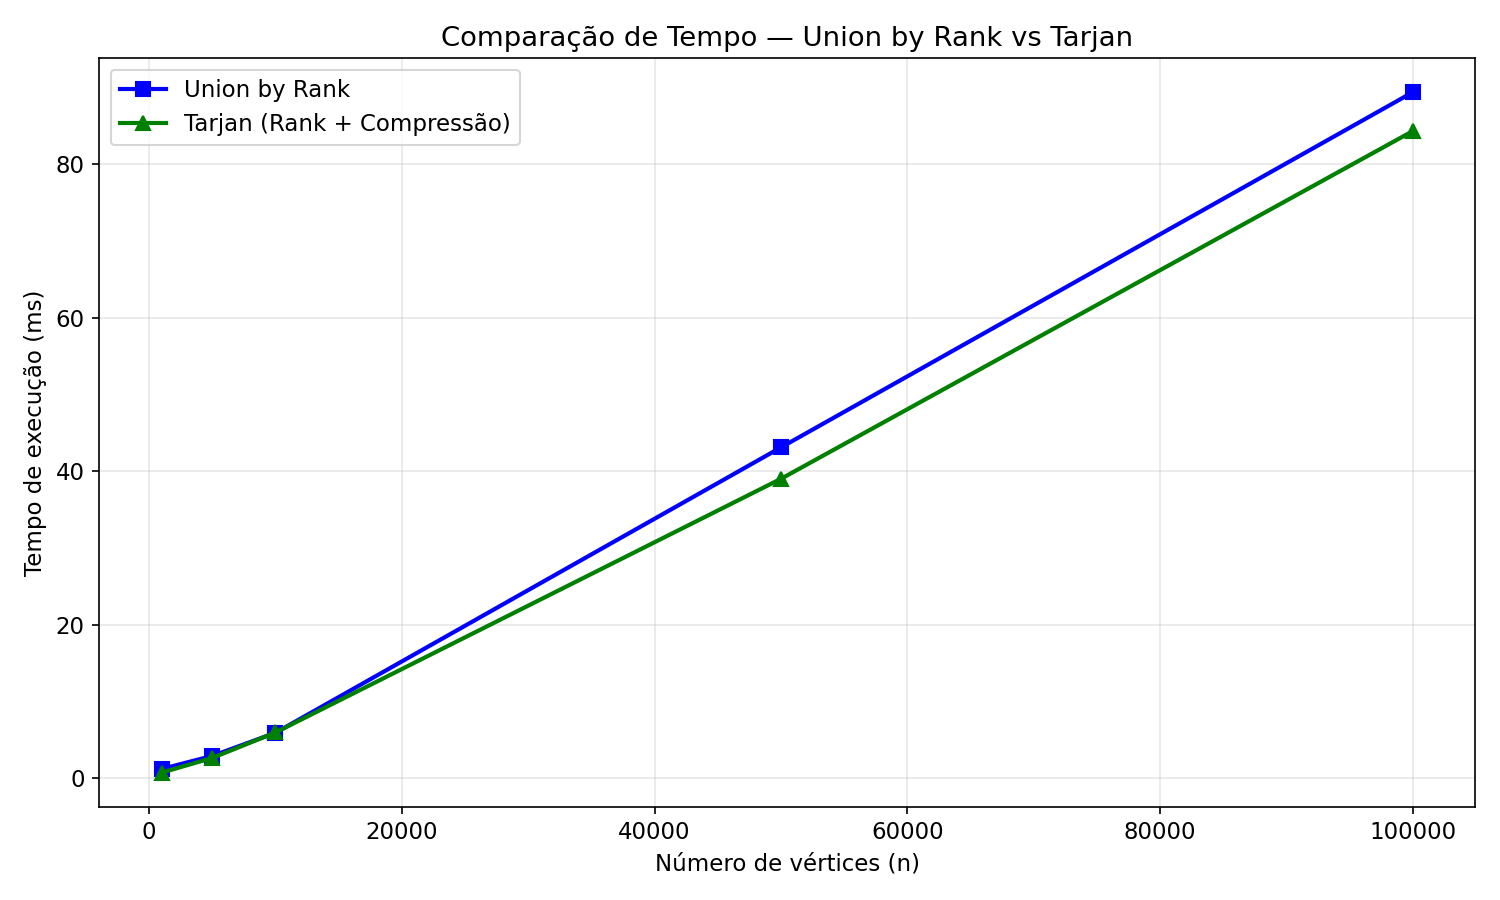
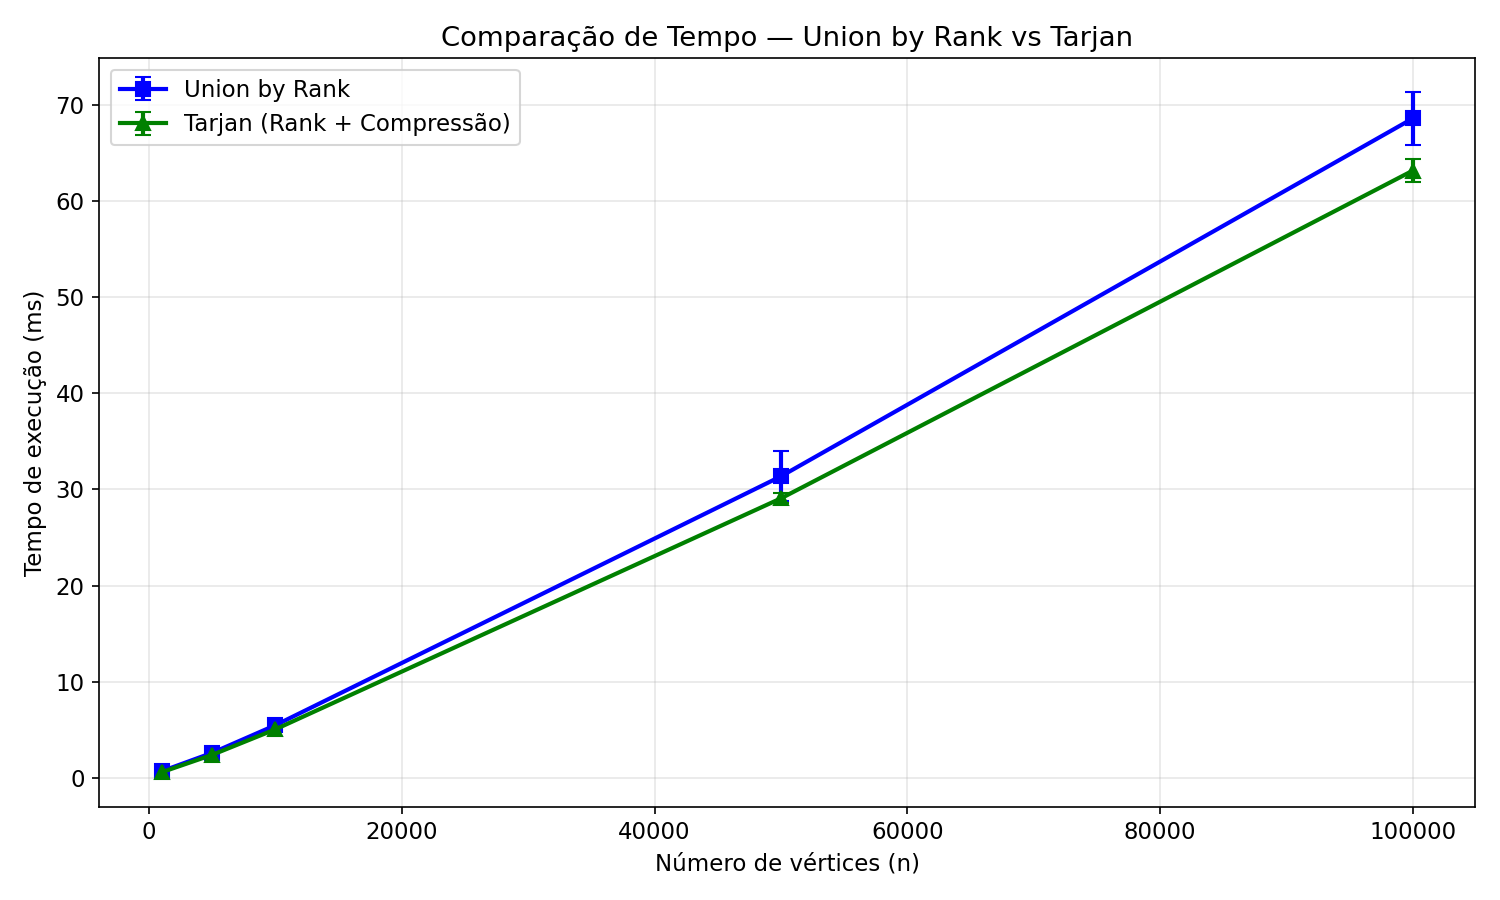
refactor(graficos): leitura de CSV e barras de erro nos tempos

diff --git a/gerar_graficos.py b/gerar_graficos.py
@@ -1,49 +1,44 @@
+import csv
+import sys
 import matplotlib.pyplot as plt
 import numpy as np
 
-# dados coletados do benchmark com warm-up JIT (seed=42, unica execucao)
-# n, m, variante, tempo_ms, operacoes
-dados_brutos = """
-1000,3000,Naive,1.49,647373
-1000,3000,Union by Rank,1.23,27377
-1000,3000,Tarjan (Rank + Compressao),0.76,19897
-5000,15000,Naive,16.83,21438927
-5000,15000,Union by Rank,2.93,157485
-5000,15000,Tarjan (Rank + Compressao),2.67,108137
-10000,30000,Naive,56.58,80819671
-10000,30000,Union by Rank,5.94,324011
-10000,30000,Tarjan (Rank + Compressao),5.98,216791
-50000,150000,Naive,3320.02,2029460441
-50000,150000,Union by Rank,43.09,1674589
-50000,150000,Tarjan (Rank + Compressao),39.00,1084927
-100000,300000,Naive,14519.67,8148600321
-100000,300000,Union by Rank,89.33,3257913
-100000,300000,Tarjan (Rank + Compressao),84.27,2155953
-"""
+# Uso: python gerar_graficos.py [caminho_csv]
+# Default: benchmark_detalhado.csv na pasta atual
 
-naive_n, naive_tempo, naive_ops = [], [], []
-rank_n, rank_tempo, rank_ops = [], [], []
-tarjan_n, tarjan_tempo, tarjan_ops = [], [], []
+caminho_csv = sys.argv[1] if len(sys.argv) > 1 else "benchmark_detalhado.csv"
 
-for linha in dados_brutos.strip().split("\n"):
-    partes = linha.split(",")
-    n = int(partes[0])
-    tempo = float(partes[3])
-    ops = int(partes[4])
-    variante = partes[2]
+dados = {"Naive": {}, "Union by Rank": {}, "Tarjan (Rank + Compressao)": {}}
 
-    if variante == "Naive":
-        naive_n.append(n)
-        naive_tempo.append(tempo)
-        naive_ops.append(ops)
-    elif variante == "Union by Rank":
-        rank_n.append(n)
-        rank_tempo.append(tempo)
-        rank_ops.append(ops)
-    else:
-        tarjan_n.append(n)
-        tarjan_tempo.append(tempo)
-        tarjan_ops.append(ops)
+with open(caminho_csv, newline="", encoding="utf-8") as f:
+    leitor = csv.DictReader(f)
+    for linha in leitor:
+        variante = linha["variante"]
+        n = int(linha["n"])
+        dados[variante][n] = {
+            "tempo_medio": float(linha["tempo_medio"]),
+            "tempo_std":   float(linha["tempo_std"]),
+            "ops_media":   float(linha["ops_media"]),
+            "ops_std":     float(linha["ops_std"]),
+        }
+
+def extrair(variante, campo):
+    itens = sorted(dados[variante].items())
+    ns = [n for n, _ in itens]
+    vals = [r[campo] for _, r in itens]
+    return ns, vals
+
+naive_n,  naive_tempo    = extrair("Naive", "tempo_medio")
+_,        naive_tempo_s  = extrair("Naive", "tempo_std")
+_,        naive_ops      = extrair("Naive", "ops_media")
+
+rank_n,   rank_tempo     = extrair("Union by Rank", "tempo_medio")
+_,        rank_tempo_s   = extrair("Union by Rank", "tempo_std")
+_,        rank_ops       = extrair("Union by Rank", "ops_media")
+
+tarjan_n, tarjan_tempo   = extrair("Tarjan (Rank + Compressao)", "tempo_medio")
+_,        tarjan_tempo_s = extrair("Tarjan (Rank + Compressao)", "tempo_std")
+_,        tarjan_ops     = extrair("Tarjan (Rank + Compressao)", "ops_media")
 
 plt.rcParams['figure.figsize'] = (10, 6)
 plt.rcParams['font.size'] = 11
@@ -87,12 +82,15 @@ plt.close()
 print("Salvo: grafico_operacoes_rank_tarjan.png")
 
 # ============================================
-# GRAFICO 3 - Tempo de execucao (todas)
+# GRAFICO 3 - Tempo de execucao (todas, com barras de erro)
 # ============================================
 fig, ax = plt.subplots()
-ax.plot(naive_n, naive_tempo, 'ro-', label='Naive', linewidth=2, markersize=7)
-ax.plot(rank_n, rank_tempo, 'bs-', label='Union by Rank', linewidth=2, markersize=7)
-ax.plot(tarjan_n, tarjan_tempo, 'g^-', label='Tarjan (Rank + Compressão)', linewidth=2, markersize=7)
+ax.errorbar(naive_n,  naive_tempo,  yerr=naive_tempo_s,
+            fmt='ro-', label='Naive', linewidth=2, markersize=7, capsize=4)
+ax.errorbar(rank_n,   rank_tempo,   yerr=rank_tempo_s,
+            fmt='bs-', label='Union by Rank', linewidth=2, markersize=7, capsize=4)
+ax.errorbar(tarjan_n, tarjan_tempo, yerr=tarjan_tempo_s,
+            fmt='g^-', label='Tarjan (Rank + Compressão)', linewidth=2, markersize=7, capsize=4)
 
 ax.set_xlabel('Número de vértices (n)')
 ax.set_ylabel('Tempo de execução (ms)')
@@ -106,11 +104,13 @@ plt.close()
 print("Salvo: grafico_tempo_todas.png")
 
 # ============================================
-# GRAFICO 4 - Tempo (so Rank e Tarjan)
+# GRAFICO 4 - Tempo (so Rank e Tarjan, com barras de erro)
 # ============================================
 fig, ax = plt.subplots()
-ax.plot(rank_n, rank_tempo, 'bs-', label='Union by Rank', linewidth=2, markersize=7)
-ax.plot(tarjan_n, tarjan_tempo, 'g^-', label='Tarjan (Rank + Compressão)', linewidth=2, markersize=7)
+ax.errorbar(rank_n,   rank_tempo,   yerr=rank_tempo_s,
+            fmt='bs-', label='Union by Rank', linewidth=2, markersize=7, capsize=4)
+ax.errorbar(tarjan_n, tarjan_tempo, yerr=tarjan_tempo_s,
+            fmt='g^-', label='Tarjan (Rank + Compressão)', linewidth=2, markersize=7, capsize=4)
 
 ax.set_xlabel('Número de vértices (n)')
 ax.set_ylabel('Tempo de execução (ms)')
